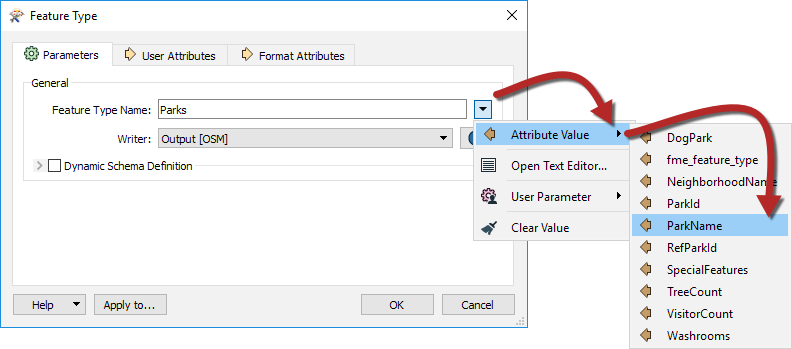
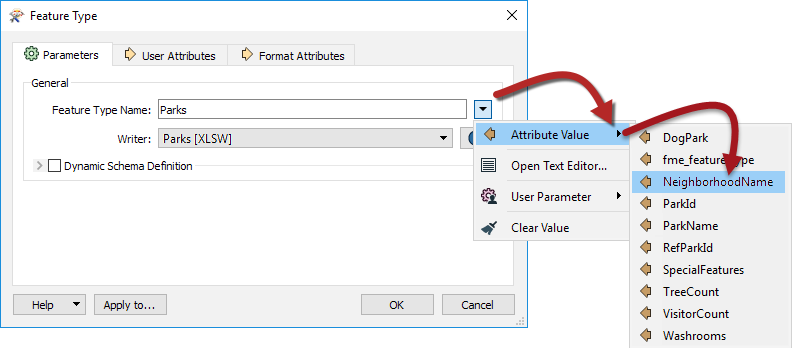
Adv Ch2 2018.1 and Grammarly review + changes for instructor workspaces

diff --git a/DesktopAdvanced3AdvancedR+W/3.05.DatasetFanout.md b/DesktopAdvanced3AdvancedR+W/3.05.DatasetFanout.md
@@ -1,10 +1,10 @@
 ## Dataset Fanout ##
 
-A Dataset Fanout delivers data to the same feature type, but in multiple datasets. Taking the elevation example again, here the output is a different dataset for each elevation value:
+A Dataset Fanout delivers data to the same feature type, but in multiple datasets. Using the elevation example again, here the output is a different dataset for each elevation value:
 
 ![](./Images/Img3.018.DatasetFanoutDiagram.png)
 
-This results in a series of DXF datasets, each of which has one elevation’s worth of contours on one layer.
+The result of this fanout is a series of DXF datasets, each of which has one elevation’s worth of contours on one layer.
 
 
 ### Setting a Dataset Fanout ###
@@ -16,6 +16,13 @@ A Dataset Fanout is defined in the Navigator window in Workbench, just below the
 Double-clicking the Fanout Dataset parameter opens a dialog in which to define the folder to write to and the Fanout Expression to use. It defaults to the original file name:
 
 ![](./Images/Img3.020.DatasetFanoutDialog.png)
+
+To achieve a fanout (a different file per attribute value) edit the Fanout Expression to include an attribute name, such as this:
+
+![](./Images/Img3.064.DatasetFanoutExpression.png)
+
+In this case, each different neighborhood produces a separate file of park features.
+
 
 ---
 

diff --git a/DesktopAdvanced3AdvancedR+W/3.03.Fanouts.md b/DesktopAdvanced3AdvancedR+W/3.03.Fanouts.md
@@ -1,6 +1,6 @@
 # Fanouts #
 
-Fanouts are one of the most powerful pieces of functionality within FME, capable of producing impressive results with very little effort.
+Fanouts are one of the most powerful pieces of functionality within FME, capable of producing impressive results with minimal effort.
 
 ## What is a Fanout? ##
 
@@ -12,8 +12,8 @@ For example, here an author is “fanning-out” a set of data into multiple out
 
 ![](./Images/Img3.012.FanoutGenericDiagram.png)
 
-Because a fanout occurs as the data is being written, it does not require multiple flows of data inside the workspace. Therefore this technique makes it easy to create groups with minimal impact on the workspace canvas.
+Because a fanout occurs as the data is written, it does not require multiple flows of data inside the workspace. Therefore this technique makes it easy to create groups with minimal impact on the workspace canvas.
 
-Another major benefit of a fanout is the high degree of flexibility – and freedom from fixed-layer schemas – in return for minimal effort.
+Another significant benefit of a fanout is the high degree of flexibility – and freedom from fixed-layer schemas – in return for minimal effort.
 
 There are two types of fanout: **Feature Type Fanout** and **Dataset Fanout**.

diff --git a/DesktopAdvanced3AdvancedR+W/3.04.FeatureTypeFanout.md b/DesktopAdvanced3AdvancedR+W/3.04.FeatureTypeFanout.md
@@ -1,10 +1,11 @@
 ## Feature Type Fanout ##
 
-A Feature Type Fanout delivers data to multiple feature types (layers) within a single dataset. Taking the elevation example, here the output is a different feature type for each elevation value:
+A Feature Type Fanout delivers data to multiple feature types (layers/tables) within a single dataset. Taking the elevation example, here the output is a different feature type for each elevation value:
 
 ![](./Images/Img3.013.FeatureTypeFanoutDiagram.png)
 
-This results in a DXF dataset containing multiple layers of data.
+The result of this fanout is a DXF dataset containing multiple layers of data.
+
 
 ### Setting a Feature Type Fanout ###
 
@@ -12,11 +13,8 @@ A feature type fanout is defined in the Feature Type parameters by selecting an 
 
 ![](./Images/Img3.014.SettingFeatureTypeFanout.png)
 
-The Feature Type Name then changes to match what has been selected:
+The Feature Type Name then changes to match what is selected:
 
 ![](./Images/Img3.015.FeatureTypeFanoutFTName.png)
 
-In this case, each feature with a different park name will be written to a different layer of the GML output dataset.
-
-
-
+In this case, each park record with a different neighborhood gets written to a different sheet of the Excel output spreadsheet.
